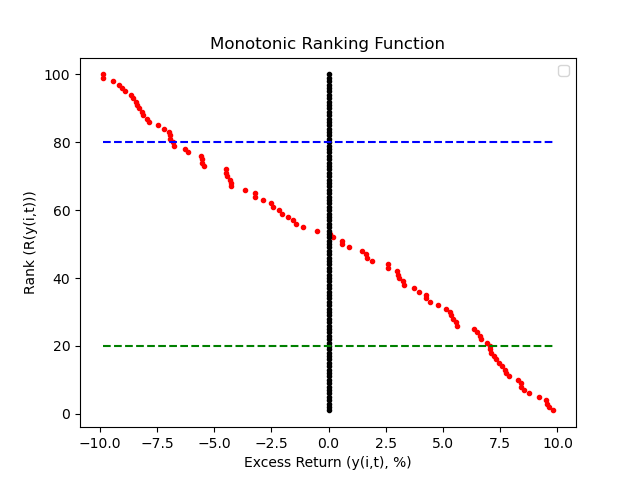
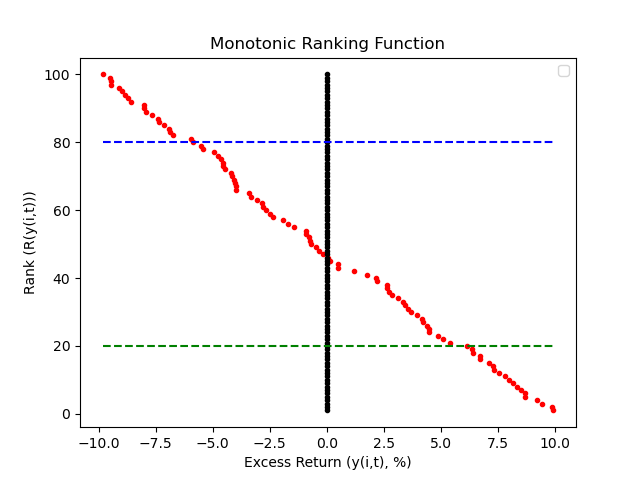
Try inverting y-axis

diff --git a/src/finance-honours.py b/src/finance-honours.py
@@ -1729,6 +1729,8 @@ def ranking_function():
     print('Sum of weights', np.sum(weights))
     # Plots the functions
     plt.plot(returns,rank,'r.', base,rank, 'k.',returns,u, 'g--',returns,v, 'b--')
+    # Invert the y-axis
+    plt.gca().invert_yaxis()
     plt.legend('Returns','Baseline')
     plt.xlabel('Excess Return (y(i,t), %)')
     plt.ylabel('Rank (R(y(i,t)))')
